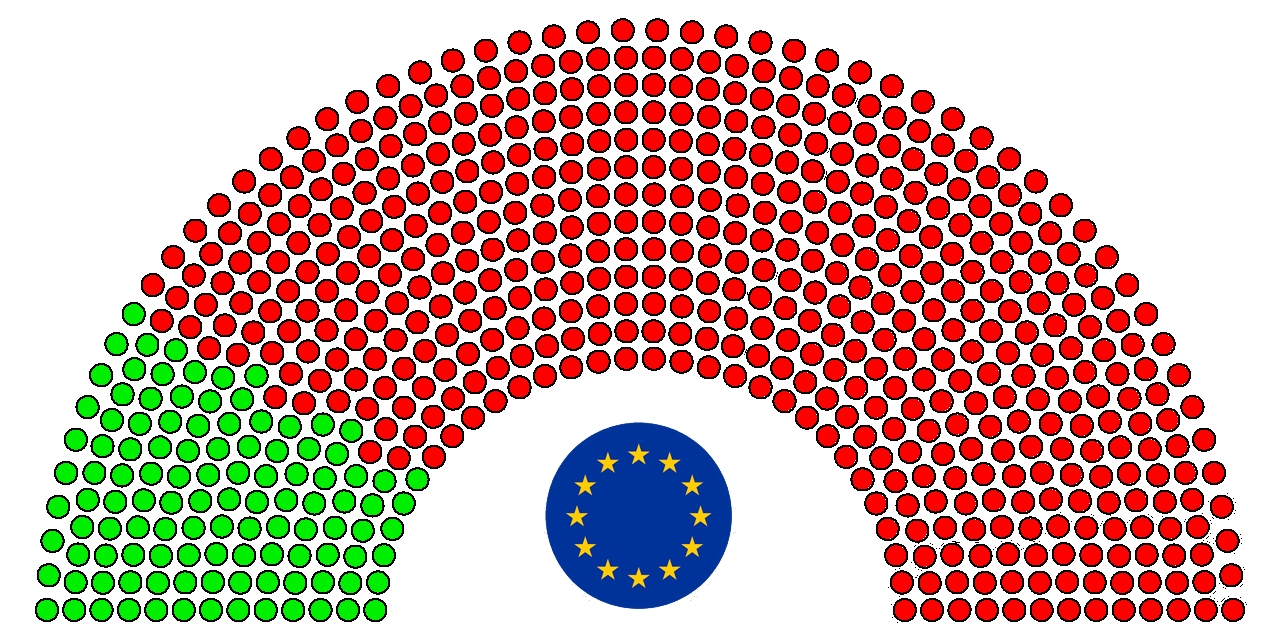
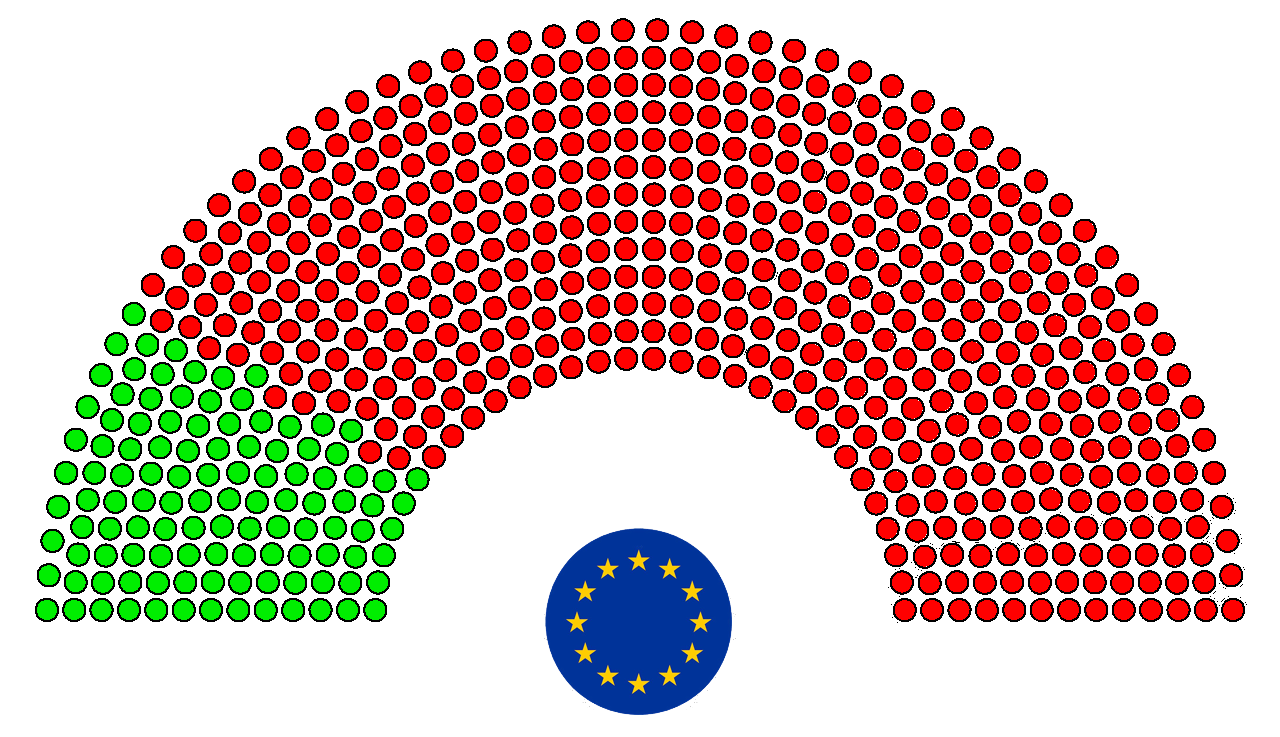
fixed eu parlament

diff --git a/src/app/home/home.page.html b/src/app/home/home.page.html
@@ -520,84 +520,94 @@
         *ngIf="isIn10Range(parlament_progress) == true"
         alt="Parlament"
         src="../../assets/images/parlament/10percent.png"
-        width="100%"
+        width="90%"
         height="20%"
         class="inline-block"
+        style="margin-left: 5%"
       />
 
       <img
         *ngIf="isIn20Range(parlament_progress) == true"
         alt="Parlament"
         src="../../assets/images/parlament/20percent.png"
-        width="100%"
+        width="90%"
         height="20%"
         class="inline-block"
+        style="margin-left: 5%"
       />
 
       <img
         *ngIf="isIn30Range(parlament_progress) == true"
         alt="Parlament"
         src="../../assets/images/parlament/30percent.png"
-        width="100%"
+        width="90%"
         height="20%"
         class="inline-block"
+        style="margin-left: 5%"
       />
 
       <img
         *ngIf="isIn40Range(parlament_progress) == true"
         alt="Parlament"
         src="../../assets/images/parlament/40percent.png"
-        width="100%"
+        width="90%"
         height="20%"
         class="inline-block"
+        style="margin-left: 5%"
       />
       <img
         *ngIf="isIn50Range(parlament_progress) == true"
         alt="Parlament"
         src="../../assets/images/parlament/50percent.png"
-        width="100%"
+        width="90%"
         height="20%"
         class="inline-block"
+        style="margin-left: 5%"
       />
       <img
         *ngIf="isIn60Range(parlament_progress) == true"
         alt="Parlament"
         src="../../assets/images/parlament/60percent.png"
-        width="100%"
+        width="90%"
         height="20%"
         class="inline-block"
+        style="margin-left: 5%"
       />
       <img
         *ngIf="isIn70Range(parlament_progress) == true"
         alt="Parlament"
         src="../../assets/images/parlament/70percent.png"
-        width="100%"
+        width="90%"
         height="20%"
         class="inline-block"
+        style="margin-left: 5%"
       />
       <img
         *ngIf="isIn80Range(parlament_progress) == true"
         alt="Parlament"
         src="../../assets/images/parlament/80percent.png"
-        width="100%"
+        width="90%"
         height="20%"
         class="inline-block"
+        style="margin-left: 5%"
       />
       <img
         *ngIf="isIn90Range(parlament_progress) == true"
         alt="Parlament"
         src="../../assets/images/parlament/90percent.png"
-        width="100%"
+        width="90%"
         height="20%"
         class="inline-block"
+        style="margin-left: 5%"
       />
       <img
         *ngIf="isIn100Range(parlament_progress) == true"
         alt="Parlament"
         src="../../assets/images/parlament/100percent.png"
-        width="100%"
+        width="90%"
         height="20%"
         class="inline-block"
+        style="margin-left: 5%"
       />
 
       <p style="text-align: center; padding: 2%; margin-top: 1%">
